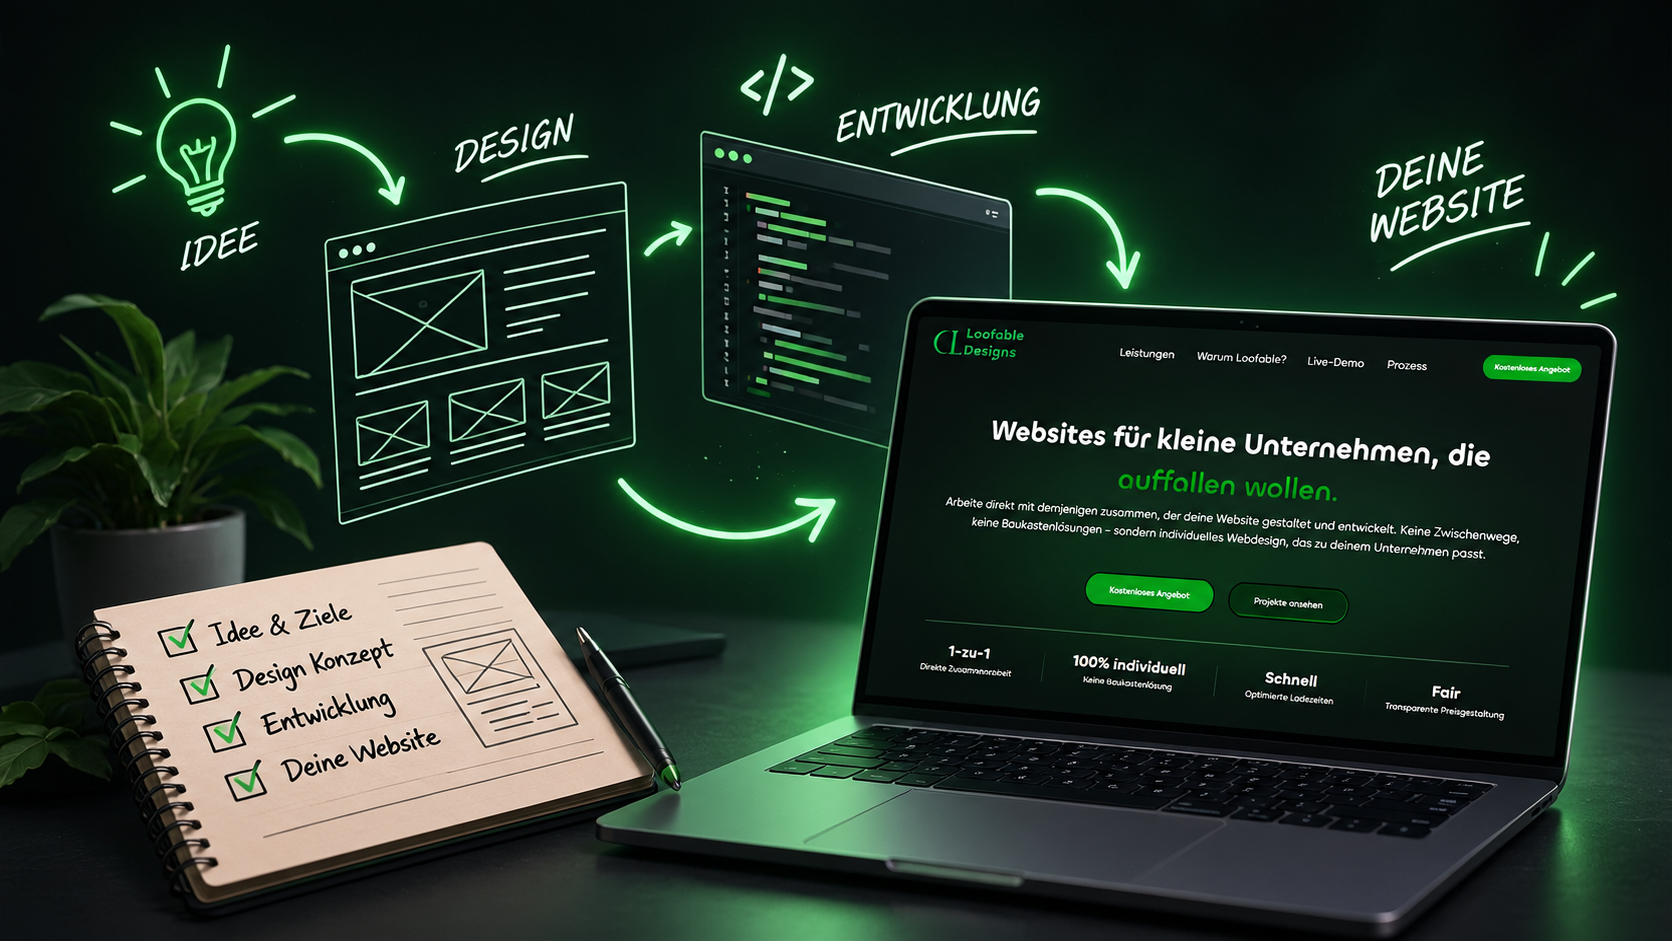
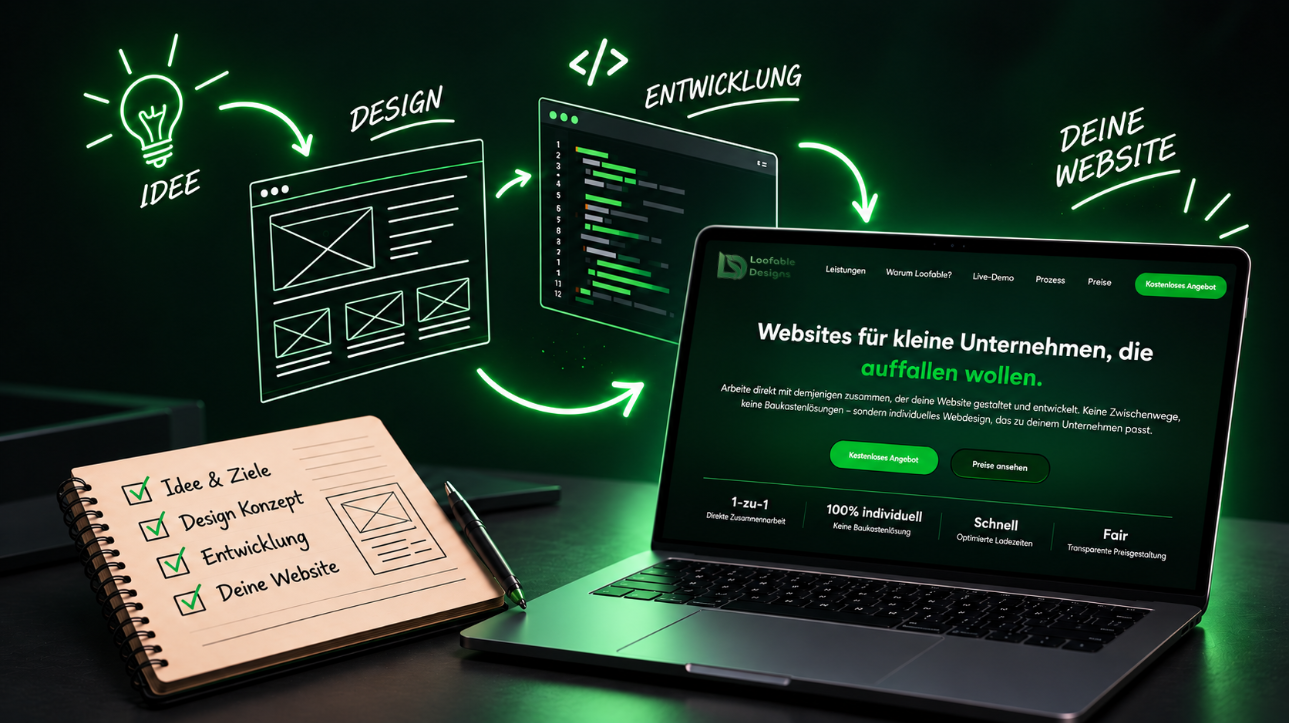
Add process timeline and FAQ accordion

diff --git a/frontend/src/FAQ.tsx b/frontend/src/FAQ.tsx
@@ -1,0 +1,65 @@
+import './FAQ.css';
+import { useState } from 'react';
+
+function FAQ () {
+    const [openFAQ, setOpenFAQ] = useState<number | null>(null);
+
+
+    const faqItems = [
+        {
+            question: "Wie lange dauert die Erstellung einer Website?",
+            answer: "Die Dauer hängt vom Umfang und den gewünschten Funktionen deiner Website ab. Eine kleinere Unternehmenswebsite kann oft innerhalb weniger Wochen fertiggestellt werden. Bei größeren Projekten oder zusätzlichen Funktionen kann es entsprechend länger dauern. Wie schnell es geht, hängt außerdem davon ab, wie schnell benötigte Inhalte und Rückmeldungen vorliegen. Vor Projektbeginn erhältst du von mir eine realistische Einschätzung des Zeitrahmens."
+        },
+        {
+            question: "Was kostet eine Website?",
+            answer: "Die Kosten richten sich nach dem Umfang und den Funktionen deiner Website. Eine einfache Unternehmenswebsite ist natürlich günstiger als ein umfangreicher Online-Shop oder eine Website mit individuellen Funktionen. Auf meiner Preisseite findest du eine transparente Übersicht meiner Preise und kannst dir mit dem Kostenrechner eine erste Einschätzung zusammenstellen."
+        },
+        {
+            question: "Muss ich Texte und Bilder selbst bereitstellen?",
+            answer: "Wenn du bereits Texte, Bilder oder ein Logo hast, können wir diese natürlich verwenden. Falls noch Inhalte fehlen, besprechen wir gemeinsam, was benötigt wird und wie wir die passenden Inhalte für deine Website zusammenstellen."
+        },
+        {
+            question: "Wie läuft die Bezahlung ab?",
+            answer: "Zu Beginn des Projekts wird eine Anzahlung von 50 % fällig. Die restlichen 50 % zahlst du nach Fertigstellung und deiner Freigabe der Website. So sind die Kosten und der Ablauf von Anfang an klar geregelt."
+        },
+        {
+            question: "Kann ich während der Erstellung Änderungen wünschen?",
+            answer: "Natürlich. Zusammenarbeit ist ein wichtiger Teil meines Prozesses. Während der Erstellung halte ich dich über den aktuellen Stand auf dem Laufenden und wir stimmen wichtige Entscheidungen gemeinsam ab, damit die fertige Website wirklich zu deinem Unternehmen passt."
+        },
+        {
+            question: "Kann meine Website später erweitert werden?",
+            answer: "Ja. Deine Website kann später beispielsweise um weitere Seiten, neue Funktionen, zusätzliche Sprachen, ein Buchungssystem oder einen Online-Shop erweitert werden. Du musst also nicht von Anfang an alles einplanen."
+        },
+        {
+            question: "Was passiert nach der Veröffentlichung?",
+            answer: "Auch nach dem Start deiner Website bist du nicht auf dich allein gestellt. Der erste Monat Wartung und Support ist inklusive. Danach kannst du selbst entscheiden, ob du die Website selbst verwalten möchtest oder ob ich mich weiterhin um Wartung, Updates und Änderungen kümmern soll."
+        },
+        {
+            question: "Kannst du auch meine bestehende Website überarbeiten?",
+            answer: "Ja. Wenn du bereits eine Website hast, kann ich sie modernisieren und an dein Unternehmen anpassen. Je nach Ausgangslage kann dabei entweder die bestehende Website überarbeitet oder ein kompletter Neuaufbau sinnvoller sein. Das schauen wir uns gemeinsam an."
+        },
+    ]
+
+    return (
+        <section className='faq-content'>
+            <div className='faq-header'>
+                <h2>Noch Fragen?</h2>
+                <p>Hier findest du Antworten auf die häufigsten Fragen rund um deine Website und die Zusammenarbeit.</p>
+            </div>
+            <div className='faq-items'>
+                {faqItems.map((item, index) => (
+                <div className='faq-item'>
+                    <button key={index} className='faq-question' onClick={() => setOpenFAQ(openFAQ === index? null: index)}>
+                        <span>{item.question}</span>
+                        <span className={`faq-plus ${openFAQ === index ? "open" : ""}`}>+</span>
+                    </button>
+                    <div className={`faq-answer ${openFAQ === index ? "open" : ""}`}>
+                        <p>{item.answer}</p>
+                    </div>
+                </div>))}
+            </div>
+        </section>
+    )
+}
+
+export default FAQ;

diff --git a/frontend/src/Processes.css b/frontend/src/Processes.css
@@ -1,0 +1,92 @@
+*{
+    box-sizing: border-box;
+}
+.process-content{
+    font-family: "Chillax", sans-serif;
+    color: white;
+    display: flex;
+    flex-direction: column;
+    justify-content: center;
+    align-items: center;
+    padding: 60px 60px;
+}
+.process-content-header{
+    display: flex;
+    flex-direction: column;
+    align-items: center;
+    gap: 20px;
+    padding-bottom: 30px;
+    width: 100%;
+}
+.process-content-header h2{
+    font-size: 40px;
+}
+.process-content-header p{
+    font-size: 25px;
+}
+.process-content-info{
+    display: flex;
+    flex-direction: column;
+    justify-content: space-between;
+    gap: 30px;
+    padding-top: 30px;
+}
+.process-content-info-columns{
+    display: grid;
+    grid-template-columns: repeat(4, 1fr);
+    gap: 50px;
+}
+.process-content-info-column{
+    display: flex;
+    flex-direction: column;
+    justify-content: center;
+    align-items: center;
+    text-align: center;
+    width: 300px;
+    aspect-ratio: 1;
+    border: 3px solid green;
+    border-radius: 50%;
+    background-color: rgb(27, 41, 27);
+    padding: 35px;
+    gap: 15px;
+
+}
+.process-content-info-column h3{
+    font-size: 30px;
+}
+.process-content-info-column p{
+    font-size: 18px;
+}
+.process-timeline,
+.process-content-info-columns {
+    width: 100%;
+}
+.process-timeline{
+    display: grid;
+    grid-template-columns: repeat(4, 1fr);
+    position: relative;
+    padding-bottom: 20px;
+    gap: 50px
+}
+.process-timeline::before {
+    content: "";
+    position: absolute;
+    height: 2px;
+    background-color: green;
+    top: 15px;
+    left: 0;
+    right: 0;
+    left: calc((100% - 150px) / 8);
+    right: calc((100% - 150px) / 8);
+}
+.process-timeline span {
+    justify-self: center;
+    width: 30px;
+    height: 30px;
+    background-color: green;
+    border-radius: 50%;
+    display: flex;
+    justify-content: center;
+    align-items: center;
+    z-index: 1;
+}

diff --git a/frontend/src/FAQ.css b/frontend/src/FAQ.css
@@ -1,0 +1,88 @@
+*{
+    box-sizing: border-box;
+}
+.faq-content{
+    font-family: "Chillax", sans-serif;
+    display: flex;
+    flex-direction: column;
+    justify-content: center;
+    align-items: center;
+    background-color: rgb(1, 1, 19);
+    padding: 50px 40px;
+}
+.faq-header{
+    display: flex;
+    flex-direction: column;
+    justify-content: center;
+    align-items: center;
+    color: white;
+    gap: 30px;
+}
+.faq-header h2{
+    font-size: 40px;
+}
+.faq-header p{
+    font-size: 25px;
+}
+.faq-items{
+    padding-top: 50px;
+    display: grid;
+    grid-template-columns: repeat(3, minmax(200px, 1fr));
+    gap: 20px;
+}
+.faq-item{
+    display: flex;
+    flex-direction: column;
+    justify-content: space-between;
+
+}
+.faq-question{
+    display: flex;
+    justify-content: space-between;
+    align-items: center;
+    font-size: 25px;
+    width: 95%;
+    height: 100px;
+    border-radius: 15px;
+    color: white;
+    background: radial-gradient(
+    ellipse at center,
+    #143a1e 5%,
+    #113322 20%,
+    #0a1710 75%,
+    #090e0b 100%);
+    padding: 30px;
+}
+.faq-plus{
+    margin-left: auto;
+    scale: 1.5;
+    flex-shrink: 0;
+    transition: transform 0.3s ease;
+}
+.faq-plus.open {
+    transform: rotate(45deg);
+}
+.faq-answer{
+    font-size: 25px;
+    border-radius: 15px;
+    width: 95%;
+    padding: 0 30px;
+    background: radial-gradient(
+    ellipse at center,
+    #143a1e 5%,
+    #113322 25%,
+    #0a1710 60%,
+    #090e0b 100%);
+    color: white;
+    max-height: 0;
+    overflow: hidden;
+    opacity: 0;
+    transition: max-height 0.4s ease,
+                opacity 0.3s ease,
+                padding 0.4s ease;
+}
+.faq-answer.open {
+    max-height: 500px;
+    opacity: 1;
+    padding: 30px;
+}

diff --git a/frontend/src/Processes.tsx b/frontend/src/Processes.tsx
@@ -1,0 +1,41 @@
+import "./Processes.css";
+
+function Processes () {
+
+    return (
+        <section id="prozess" className="process-content">
+            <div className="process-content-header">
+                <h2>So läuft dein Projekt ab.</h2>
+                <p>Von der ersten Idee bis zur fertigen Website - transparent und unkompliziert</p>
+            </div>
+            <div className="process-content-info">
+                <div className="process-timeline">
+                    <span>01</span>
+                    <span>02</span>
+                    <span>03</span>
+                    <span>04</span>
+                </div>
+                <div className="process-content-info-columns">
+                <div className="process-content-info-column">
+                    <h3>Kennenlernen</h3>
+                    <p>Wir sprechen über dein Unternehmen, deine Wünsche und deine Ziele</p>
+                </div>
+                <div className="process-content-info-column">
+                    <h3>Planung</h3>
+                    <p>Wir legen Aufbau, Inhalte und die passende Lösung gemeinsam fest.</p>
+                </div>
+                <div className="process-content-info-column">
+                    <h3>Umsetzung</h3>
+                    <p>Ich gestalte und entwickle deine Website und halte dich auf dem Laufenden</p>
+                </div>
+                <div className="process-content-info-column">
+                    <h3>Veröffentlichung</h3>
+                    <p>Nach deiner Freigabe geht deine Website online.</p>
+                </div>
+                </div>
+            </div>
+        </section>
+    )
+}
+
+export default Processes;

diff --git a/frontend/src/Hero.tsx b/frontend/src/Hero.tsx
@@ -14,7 +14,7 @@ function Hero() {
                 </div>
                 <div className="hero-CTAs">
                     <a className="hero-primary" href="#kontakt">Kostenloses Angebot</a>
-                    <a className="hero-secondary" href="#live-demo">Projekte ansehen</a>
+                    <a className="hero-secondary" href="#live-demo">Preise ansehen</a>
                 </div>
                 <div className="hero-additional-info">
                     <div className="hero-info">

diff --git a/frontend/src/Hero.css b/frontend/src/Hero.css
@@ -30,6 +30,7 @@
     background-clip: text;
     color: transparent;
     text-shadow: none;
+    -webkit-text-stroke: 0.5px rgba(0, 0, 0, 0.7);
 }
 .hero-support-text{
     text-align: center;
@@ -56,6 +57,7 @@
 }
 .hero-primary{
     background-color: #02741e;
+    font-size: 20px;
 
     &:hover{
         transform: scale(1.03);
@@ -64,6 +66,7 @@
 }
 .hero-secondary{
     background-color: #01310d;
+    font-size: 20px;
     
     &:hover{
         transform: scale(1.03);

diff --git a/frontend/src/Navbar.tsx b/frontend/src/Navbar.tsx
@@ -13,6 +13,7 @@ function Navbar () {
                     <li><a href="#warum-loofable">Warum Loofable?</a></li>
                     <li><a href="#live-demo">Live-Demo</a></li>
                     <li><a href="#prozess">Prozess</a></li>
+                    <li><a href="#live-demo">Preise</a></li>
                 </ul>
                 <a className="navbar-button" href="#kontakt">Kostenloses Angebot</a>
             </div>

diff --git a/frontend/src/App.tsx b/frontend/src/App.tsx
@@ -4,6 +4,8 @@ import Hero from './Hero';
 import Services from './Services';
 import WhyLoofable from './WhyLoofable';
 import LiveDemo from './LiveDemo';
+import Processes from './Processes';
+import FAQ from './FAQ';
 
 function App() {
 
@@ -14,6 +16,8 @@ function App() {
       <Services/>
       <WhyLoofable/>
       <LiveDemo/>
+      <Processes/>
+      <FAQ/>
     </>
   )
 }

diff --git a/frontend/src/Navbar.css b/frontend/src/Navbar.css
@@ -54,9 +54,9 @@ body{
     background-color: #02741e;
     border: 2px solid black;
     color: white;
-    padding: 18px 28px;
+    padding: 10px 15px;
     border-radius: 20px;
-    margin-left: 60px;
+    margin-left: 30px;
     font-weight: 500;
     transition: 0.3s;
     text-decoration: none;
